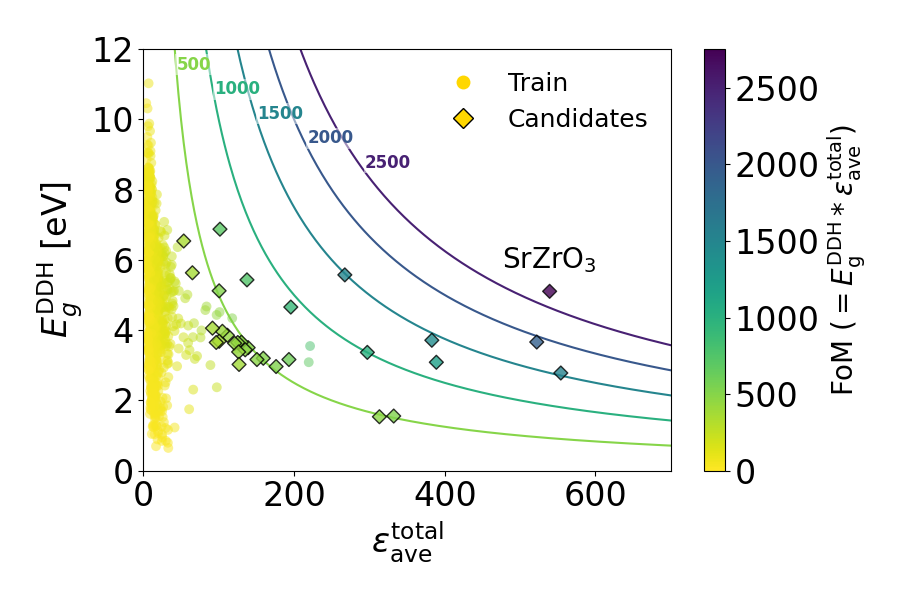
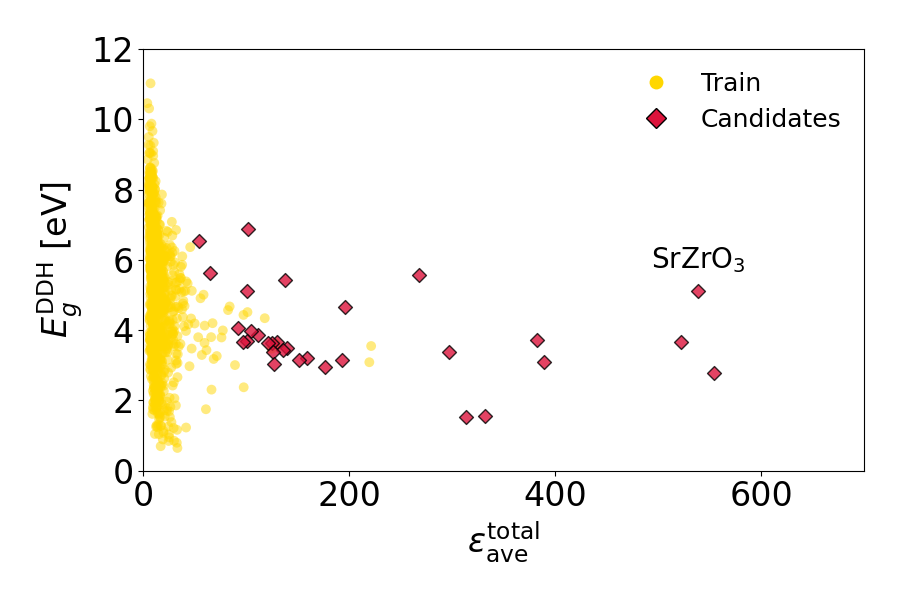
[fix] Eg vs totd map: remove FoM contours/colorbar, color by dataset (train: gold circles, candidates: crimson diamonds)

diff --git a/plot_map_eg_vs_totd.py b/plot_map_eg_vs_totd.py
@@ -3,29 +3,9 @@ import numpy as np
 import pandas as pd
 import matplotlib.pyplot as plt
 import matplotlib.lines as mlines
-import matplotlib.colors as mcolors
 from matplotlib.ticker import MultipleLocator
 
 plt.rcParams.update({'font.size': 24})
-
-
-def add_fom_contours(ax, contour_Cs, cvmin, cvmax, x_max, label_y0, cmap="viridis_r"):
-    """Draw iso-FoM curves (y = C / x) colored consistently with the colormap"""
-    norm = mcolors.Normalize(vmin=cvmin, vmax=cvmax)
-    cmap = plt.get_cmap(cmap)
-    x_line = np.linspace(1., x_max, 400)
-    for i, C in enumerate(contour_Cs):
-        y_line = C / x_line
-        color = cmap(norm(C))
-        ax.plot(x_line, y_line, color=color, linestyle="-", linewidth=1.5, zorder=0)
-        # stagger label heights so that neighboring labels do not overlap
-        label_y = label_y0 - 0.7 * i
-        ax.text(
-            C / label_y, label_y, f"{C}",
-            color=color, fontsize=12, fontweight='bold',
-            ha='left', va='bottom',
-            bbox=dict(facecolor='white', edgecolor='none', alpha=0.5, pad=1),
-        )
 
 
 def load_data(matnames_path, bandgap_dir, diele_dir):
@@ -68,27 +48,17 @@ save_stem = "results_screening/map_eg_ddh_vs_totd_pbesol"
 train_df.to_csv(f"{save_stem}_train.csv", index=False)
 screened_df.to_csv(f"{save_stem}_screened.csv", index=False)
 
-""" Plot the map (colored by FoM = Eg * total dielectric constant) """
-cvmin = 0.
-cvmax = float(max(train_df["fom"].max(), screened_df["fom"].max()))
-
+""" Plot the map """
 fig = plt.figure(figsize=(9, 6))
 ax = fig.add_subplot(111)
 
-add_fom_contours(
-    ax, contour_Cs=[500, 1000, 1500, 2000, 2500],
-    cvmin=cvmin, cvmax=cvmax, x_max=700., label_y0=11.3,
-)
-
-sc = ax.scatter(
+ax.scatter(
     train_df["totd"], train_df["bandgap"],
-    s=50, c=train_df["fom"], cmap="viridis_r", vmin=cvmin, vmax=cvmax,
-    alpha=0.5, edgecolor="none",
+    s=50, color="gold", alpha=0.5, edgecolor="none",
 )
 ax.scatter(
     screened_df["totd"], screened_df["bandgap"],
-    s=50, c=screened_df["fom"], cmap="viridis_r", vmin=cvmin, vmax=cvmax,
-    alpha=0.8, marker="D", edgecolor="black",
+    s=50, color="crimson", alpha=0.8, marker="D", edgecolor="black",
 )
 
 """ Annotate the best-FoM candidate with its composition """
@@ -118,16 +88,8 @@ ax.xaxis.set_major_locator(MultipleLocator(200))
 train_marker = mlines.Line2D([], [], color='none', marker='o', markersize=10,
                              markerfacecolor='gold', markeredgecolor="none", label='Train')
 screen_marker = mlines.Line2D([], [], color='none', marker='D', markersize=10,
-                              markerfacecolor='gold', markeredgecolor="black", label='Candidates')
+                              markerfacecolor='crimson', markeredgecolor="black", label='Candidates')
 ax.legend(handles=[train_marker, screen_marker], fontsize=18, frameon=False)
-
-cbar = plt.colorbar(sc, ax=ax)
-cbar.set_label(r"$\mathrm{FoM}$ ($=E_{\mathrm{g}}^{\mathrm{DDH}} * \epsilon^{\mathrm{total}}_{\mathrm{ave}}$)", fontsize=20)
-try:
-    cbar.solids.set_alpha(1)
-except AttributeError:
-    for coll in cbar.ax.collections:
-        coll.set_alpha(1)
 
 plt.tight_layout()
 save_path = f"{save_stem}.png"
